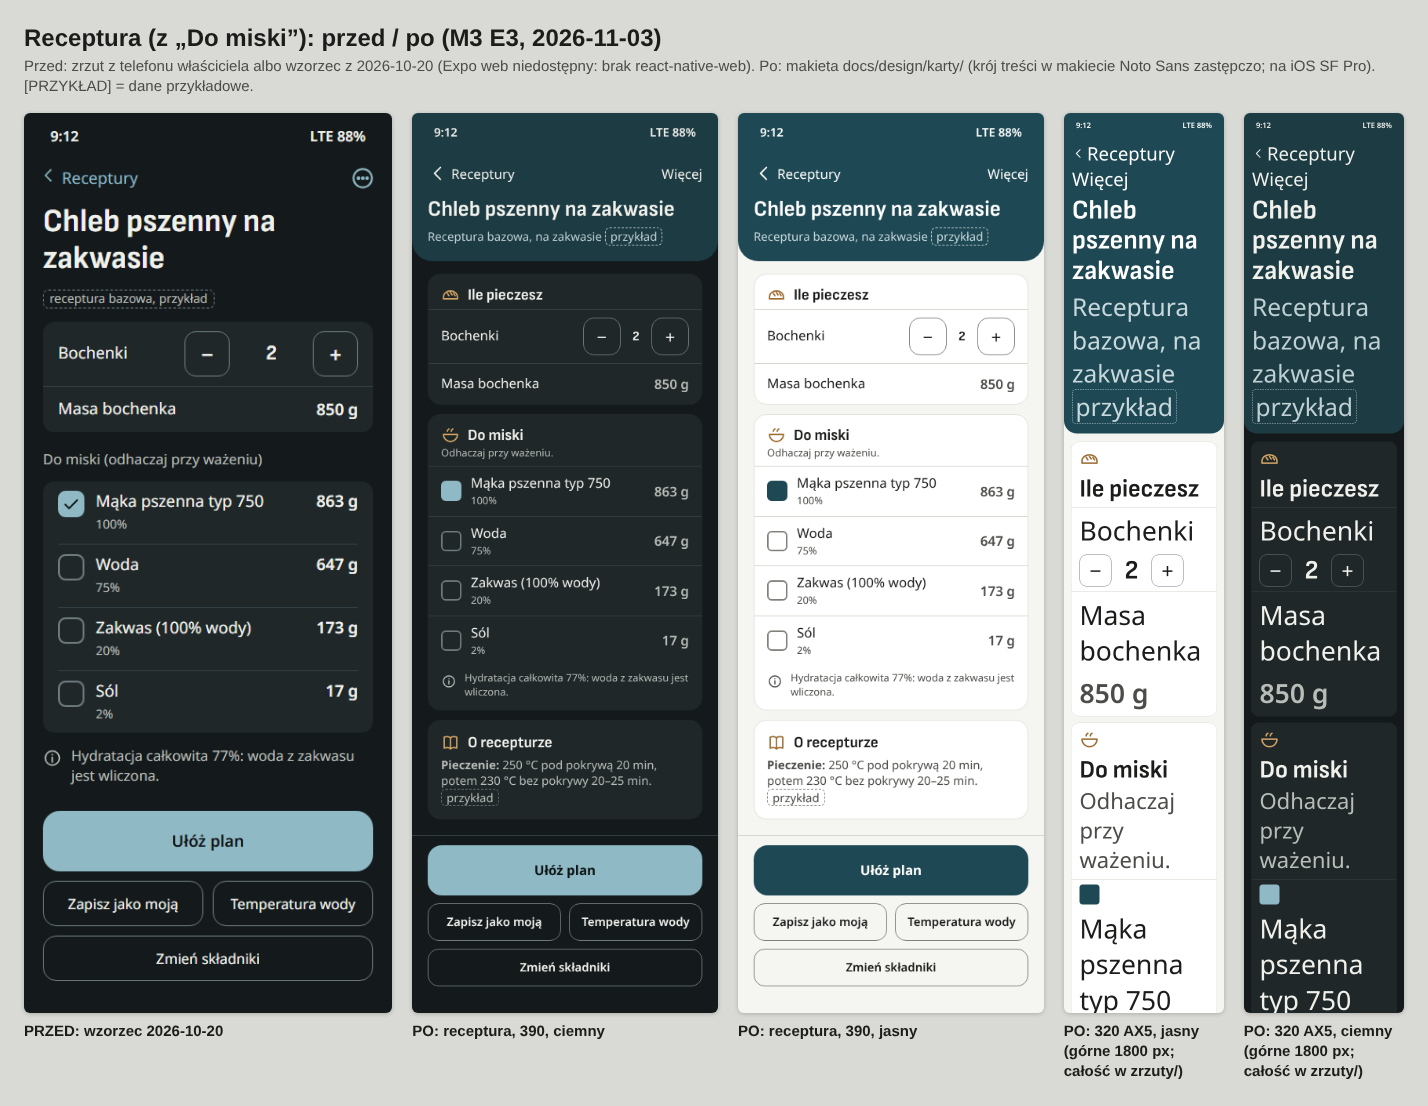
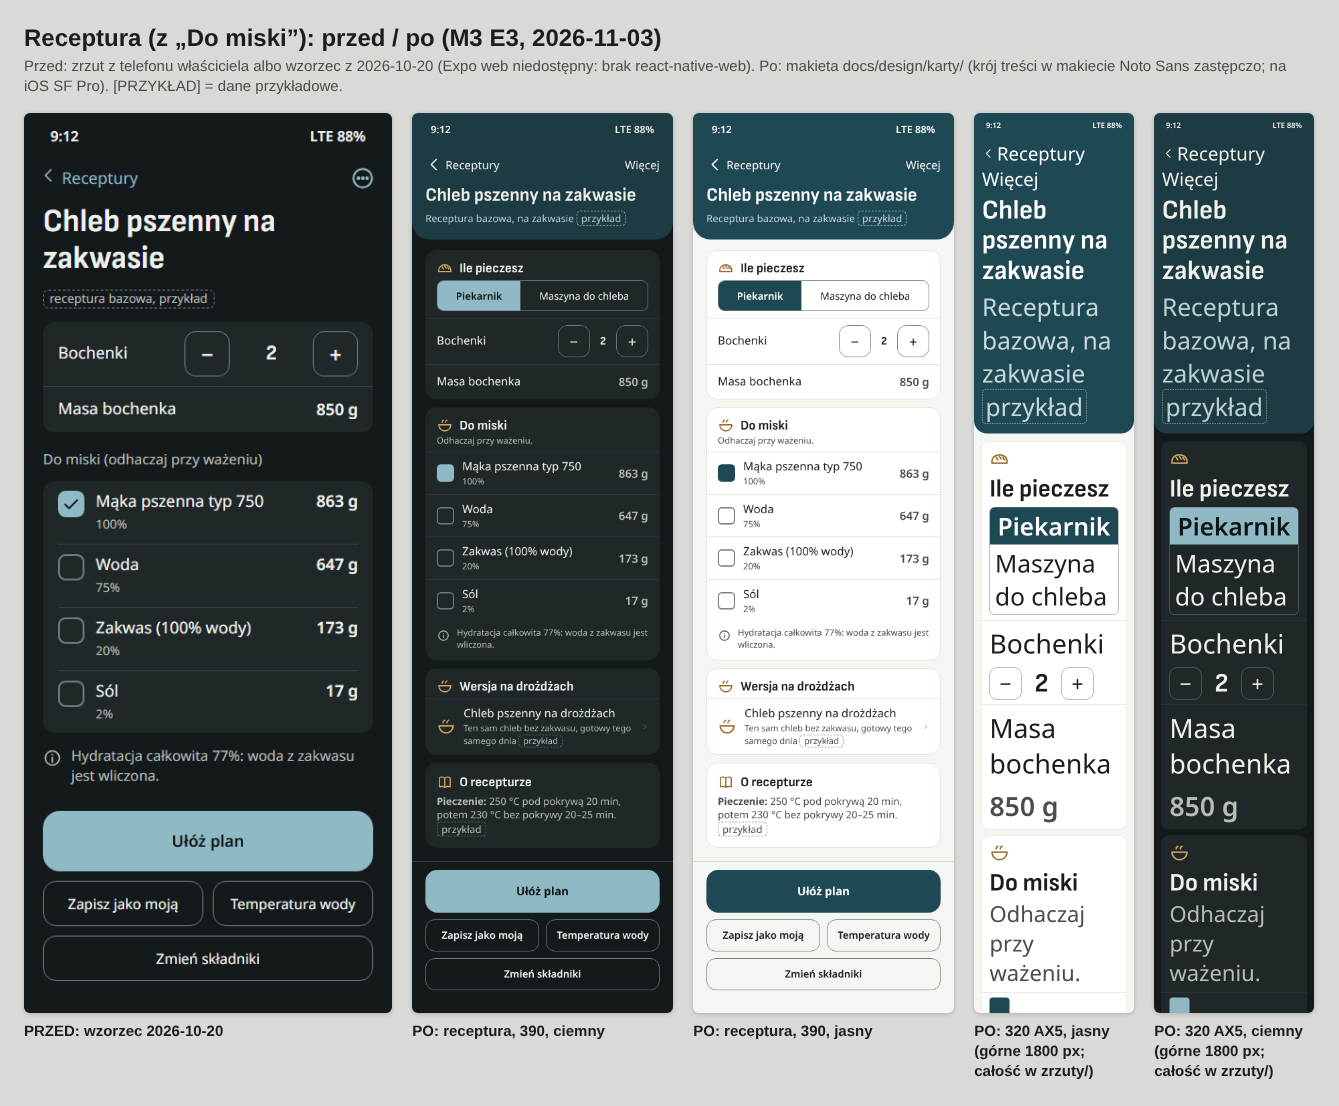
[M3 04-E3] docs(design): ekrany D-136..D-138 w jezyku "Dzis" (D-150), opcja O4, skalowanie segmentow przy AX5
Stany receptury: blizniak drozdzowy ze swieze/instant, powiazanie wersji, tryb maszyny do chleba; arkusz funkcje-d150.png; liczby jako przyklad do tresci rol 03/06.

Claude-Session: https://claude.ai/code/session_01T66VBywBERX7qUtVqvq4jF

diff --git a/docs/design/karty/receptury.html b/docs/design/karty/receptury.html
@@ -16,7 +16,7 @@
     </section>
     <section class="karta bez-wn">
       <div class="kn"><i data-i="receptury"></i><h2>Receptury bazowe</h2></div>
-      <div class="wiersz"><i data-i="bochenek" class="ik"></i><span class="roz"><span class="t-tresc">Wiejski chleb codzienny na zakwasie</span><span class="t-przyp p2">Na zakwasie, poziom łatwy</span></span><i data-i="dalej" class="szew"></i></div>
+      <div class="wiersz"><i data-i="bochenek" class="ik"></i><span class="roz"><span class="t-tresc">Wiejski chleb codzienny na zakwasie</span><span class="t-przyp p2">Na zakwasie, poziom łatwy; jest wersja na drożdżach</span></span><i data-i="dalej" class="szew"></i></div>
       <div class="wiersz"><i data-i="bochenek" class="ik"></i><span class="roz"><span class="t-tresc">Chleb w stylu San Francisco o wyrazistej kwasowości</span><span class="t-przyp p2">Na zakwasie, poziom średni</span></span><i data-i="dalej" class="szew"></i></div>
       <div class="wiersz"><i data-i="sloik" class="ik"></i><span class="roz"><span class="t-tresc">Tradycyjny chleb 100% żytni razowy</span><span class="t-przyp p2">Żytni, poziom średni</span></span><i data-i="dalej" class="szew"></i></div>
       <div class="wiersz"><i data-i="miska" class="ik"></i><span class="roz"><span class="t-tresc">Bagietka paryska na poolishu</span><span class="t-przyp p2">Drożdżowy, poziom średni</span></span><i data-i="dalej" class="szew"></i></div>
@@ -52,6 +52,7 @@
   <div class="tresc">
     <section class="karta bez-wn">
       <div class="kn"><i data-i="bochenek"></i><h2>Ile pieczesz</h2></div>
+      <div style="padding:0 16px 10px"><div class="segment"><span class="wyb">Piekarnik</span><span>Maszyna do chleba</span></div></div>
       <div class="wiersz"><span class="roz t-tresc">Bochenki</span><span class="licznik"><span>−</span><b>2</b><span>+</span></span></div>
       <div class="wiersz"><span class="roz t-tresc">Masa bochenka</span><b class="wart">850 g</b></div>
     </section>
@@ -63,6 +64,10 @@
       <div class="wiersz"><span class="pole-wyb" style="border:0;padding:0;min-height:0"><span class="kw"></span></span><span class="roz"><span class="t-tresc">Zakwas (100% wody)</span><span class="t-przyp p2">20%</span></span><b class="wart">173 g</b></div>
       <div class="wiersz"><span class="pole-wyb" style="border:0;padding:0;min-height:0"><span class="kw"></span></span><span class="roz"><span class="t-tresc">Sól</span><span class="t-przyp p2">2%</span></span><b class="wart">17 g</b></div>
       <div class="info t-przyp" style="padding:8px 16px 14px"><i data-i="info"></i><span>Hydratacja całkowita 77%: woda z zakwasu jest wliczona.</span></div>
+    </section>
+    <section class="karta bez-wn">
+      <div class="kn"><i data-i="miska"></i><h2>Wersja na drożdżach</h2></div>
+      <div class="wiersz"><i data-i="miska" class="ik"></i><span class="roz"><span class="t-tresc">Chleb pszenny na drożdżach</span><span class="t-przyp p2">Ten sam chleb bez zakwasu, gotowy tego samego dnia <span class="przyklad">przykład</span></span></span><i data-i="dalej" class="szew"></i></div>
     </section>
     <section class="karta">
       <div class="kn"><i data-i="ksiazka"></i><h2>O recepturze</h2></div>
@@ -103,6 +108,62 @@
       </section>
     </div>
   </div></div>
+</main>
+<!-- D-136 + D-137: receptura-bliźniak drożdżowa, wybór świeże/instant przy wierszu drożdży. Ilości: [PRZYKŁAD], treść dostarczą role 03 i 06 (D-150). -->
+<main data-ekran="receptura-drozdze">
+  <header class="pas">
+    <div class="status"><span>9:12</span><span>LTE 88%</span></div>
+    <div class="nav"><a><i data-i="wstecz"></i>Receptury</a><button>Więcej</button></div>
+    <h1 class="sredni">Chleb pszenny na drożdżach</h1>
+    <p class="pod">Receptura bazowa, drożdżowa <span class="przyklad" style="color:var(--naPasie2);border-color:var(--naPasie2)">przykład</span></p>
+  </header>
+  <div class="tresc">
+    <section class="karta bez-wn">
+      <div class="kn"><i data-i="miska"></i><h2>Do miski</h2></div>
+      <p class="t-przyp p2" style="padding:0 16px 8px">Odhaczaj przy ważeniu.</p>
+      <div class="wiersz"><span class="pole-wyb" style="border:0;padding:0;min-height:0"><span class="kw"></span></span><span class="roz"><span class="t-tresc">Mąka pszenna typ 750</span><span class="t-przyp p2">100%</span></span><b class="wart">1000 g</b></div>
+      <div class="wiersz"><span class="pole-wyb" style="border:0;padding:0;min-height:0"><span class="kw"></span></span><span class="roz"><span class="t-tresc">Woda</span><span class="t-przyp p2">68%</span></span><b class="wart">680 g</b></div>
+      <div class="wiersz"><span class="pole-wyb" style="border:0;padding:0;min-height:0"><span class="kw"></span></span><span class="roz"><span class="t-tresc">Sól</span><span class="t-przyp p2">2%</span></span><b class="wart">20 g</b></div>
+      <div class="wiersz"><span class="pole-wyb" style="border:0;padding:0;min-height:0"><span class="kw"></span></span><span class="roz"><span class="t-tresc">Drożdże</span><span class="segment t-przyp" style="margin-top:6px"><span class="wyb">świeże</span><span>instant</span></span></span><b class="wart">20 g <span class="przyklad">przykład</span></b></div>
+    </section>
+    <section class="karta bez-wn">
+      <div class="kn"><i data-i="sloik"></i><h2>Wersja na zakwasie</h2></div>
+      <div class="wiersz"><i data-i="bochenek" class="ik"></i><span class="roz"><span class="t-tresc">Chleb pszenny na zakwasie</span><span class="t-przyp p2">Oryginał tej receptury</span></span><i data-i="dalej" class="szew"></i></div>
+    </section>
+  </div>
+  <div class="kciuk" style="border-top:1px solid var(--linia)"><button class="glowny">Ułóż plan</button></div>
+</main>
+
+<!-- D-138: tryb „maszyna do chleba”. Pojemność, kolejność i programy: [PRZYKŁAD] do czasu reguł roli 06 i modelu maszyny od właściciela. -->
+<main data-ekran="receptura-maszyna">
+  <header class="pas">
+    <div class="status"><span>9:12</span><span>LTE 88%</span></div>
+    <div class="nav"><a><i data-i="wstecz"></i>Receptury</a><button>Więcej</button></div>
+    <h1 class="sredni">Chleb pszenny na drożdżach</h1>
+    <p class="pod">Maszyna do chleba</p>
+  </header>
+  <div class="tresc">
+    <section class="karta bez-wn">
+      <div class="kn"><i data-i="bochenek"></i><h2>Ile pieczesz</h2></div>
+      <div style="padding:0 16px 10px"><div class="segment"><span>Piekarnik</span><span class="wyb">Maszyna do chleba</span></div></div>
+      <div class="wiersz"><span class="roz t-tresc">Pojemność maszyny</span><b class="wart">750 g <span class="przyklad">przykład</span></b></div>
+    </section>
+    <section class="karta bez-wn">
+      <div class="kn"><i data-i="lista"></i><h2>Kolejność wkładania</h2></div>
+      <div class="wiersz"><b class="wart" style="min-width:28px">1</b><span class="roz t-tresc">Woda</span><b class="wart">290 g</b></div>
+      <div class="wiersz"><b class="wart" style="min-width:28px">2</b><span class="roz t-tresc">Sól</span><b class="wart">9 g</b></div>
+      <div class="wiersz"><b class="wart" style="min-width:28px">3</b><span class="roz t-tresc">Mąka pszenna typ 750</span><b class="wart">430 g</b></div>
+      <div class="wiersz"><b class="wart" style="min-width:28px">4</b><span class="roz t-tresc">Drożdże instant</span><b class="wart">4 g</b></div>
+      <div class="info t-przyp" style="padding:8px 16px 14px"><i data-i="info"></i><span>Kolejność i ilości według instrukcji maszyny. <span class="przyklad">przykład</span></span></div>
+    </section>
+    <section class="karta">
+      <div class="kn"><i data-i="zegar"></i><h2>Program i godzina</h2></div>
+      <div class="wiersz" style="padding:0;border:0"><span class="roz">Program</span><span class="wart">Podstawowy, 3 h 10 min <span class="przyklad">przykład</span></span><i data-i="dalej" class="szew"></i></div>
+      <div class="wiersz" style="padding:0"><span class="roz">Gotowe o</span><span class="t-czas" style="font-size:calc(34px + 26px * var(--ax))">7:00</span></div>
+      <p class="t-obj p2">Ustaw opóźniony start na 3 h 50 min. <span class="przyklad">przykład</span></p>
+    </section>
+  </div>
+  <div class="kciuk" style="border-top:1px solid var(--linia)"><button class="glowny">Zapisz plan</button></div>
 </main>
 <script src="karty.js"></script>
 </body></html>

diff --git a/docs/design/karty/karty.css b/docs/design/karty/karty.css
@@ -81,3 +81,4 @@ main { background: var(--tlo); }
 .wiersz .wart, .wiersz b, .wiersz a { font-size: calc(17px + 36px * var(--ax)); }
 .licznik span { width: calc(48px + 16px * var(--ax)); height: calc(48px + 16px * var(--ax)); font-size: calc(22px + 20px * var(--ax)); }
 .kn h2 { overflow-wrap: anywhere; }
+.segment span { font-size: calc(15px + 34px * var(--ax)); }

diff --git a/docs/design/stan-04-2026-11-03.md b/docs/design/stan-04-2026-11-03.md
@@ -1,8 +1,8 @@
 # Stan roli 04 (build od E3, M3 redesign D-139) — 2026-11-03
 
-- Etap: **STOP E3** — czeka na wybór właściciela O1–O3 (`docs/design/karty/README.md` §5, `docs/design/karty/arkusze/opcje.png`).
+- Etap: **STOP E3** — czeka na wybór właściciela O1–O3 i O4 (`docs/design/karty/README.md` §5, `docs/design/karty/arkusze/opcje.png`).
 - E0 (skrót): Linux, Node 22, Playwright 1.63 (scratchpad), bez Xcode; Expo web niedostępny (brak `react-native-web`); bazowe `npm run verify` kod 0 (514 zestawów, 5574 testy). Przepływy: `docs/scope-contract.md` (F-68, F-09, F-13, F-07, F-22…F-25, F-26…F-28, F-33, F-35, F-37); inwentarz ekranów AS IS: README §4.
-- Wyjątek: E1–E2 pominięte (D-140).
+- Wyjątek: E1–E2 pominięte (D-140). Zakres E3 rozszerzony o D-136…D-138 (D-150): `karty/arkusze/funkcje-d150.png`; liczby to przykłady do czasu treści 03/06 i modelu maszyny od właściciela.
 - Wyniki: makiety `docs/design/karty/*.html`, zrzuty `karty/zrzuty/` (390 ciemny/jasny wszystkich stanów, 320 AX5 dla zakwasu, receptury, prowadzenia), arkusze przed/po `karty/arkusze/*.png` (10 ekranów + opcje), kontrast `karty/kontrast-karty.md`, narzędzie `docs/design/narzedzia/arkusz.mjs`.
 - Następny krok (E4, po wyborze): wpis wyboru do `docs/decyzje.md` (D-141), §14 w `design-spec.md`, tokeny `karta`/`kartaLinia` w `tokeny.json` → `tokeny.ts`, zrzuty 320/390/430 i najdłuższy język, stare wzorce do `docs/design/archiwum/2026-11-03/`, nowe do `docs/design/wzorce-zrzuty/`, przekazanie do 08 (partie wg README §4) i 09 (README §6).
 - Render: `cd <scratchpad>/pw && DSF=1 node zrzuty.mjs <repo>/docs/design/karty/<plik>.html <repo>/docs/design/karty/zrzuty "Sofia Sans Semi Condensed,Noto Sans" "" "" "*" 390 dark,light nie`; arkusz: `node arkusz.mjs <repo>/docs/design/karty/arkusze/<ekran>.json <…>.png`.
